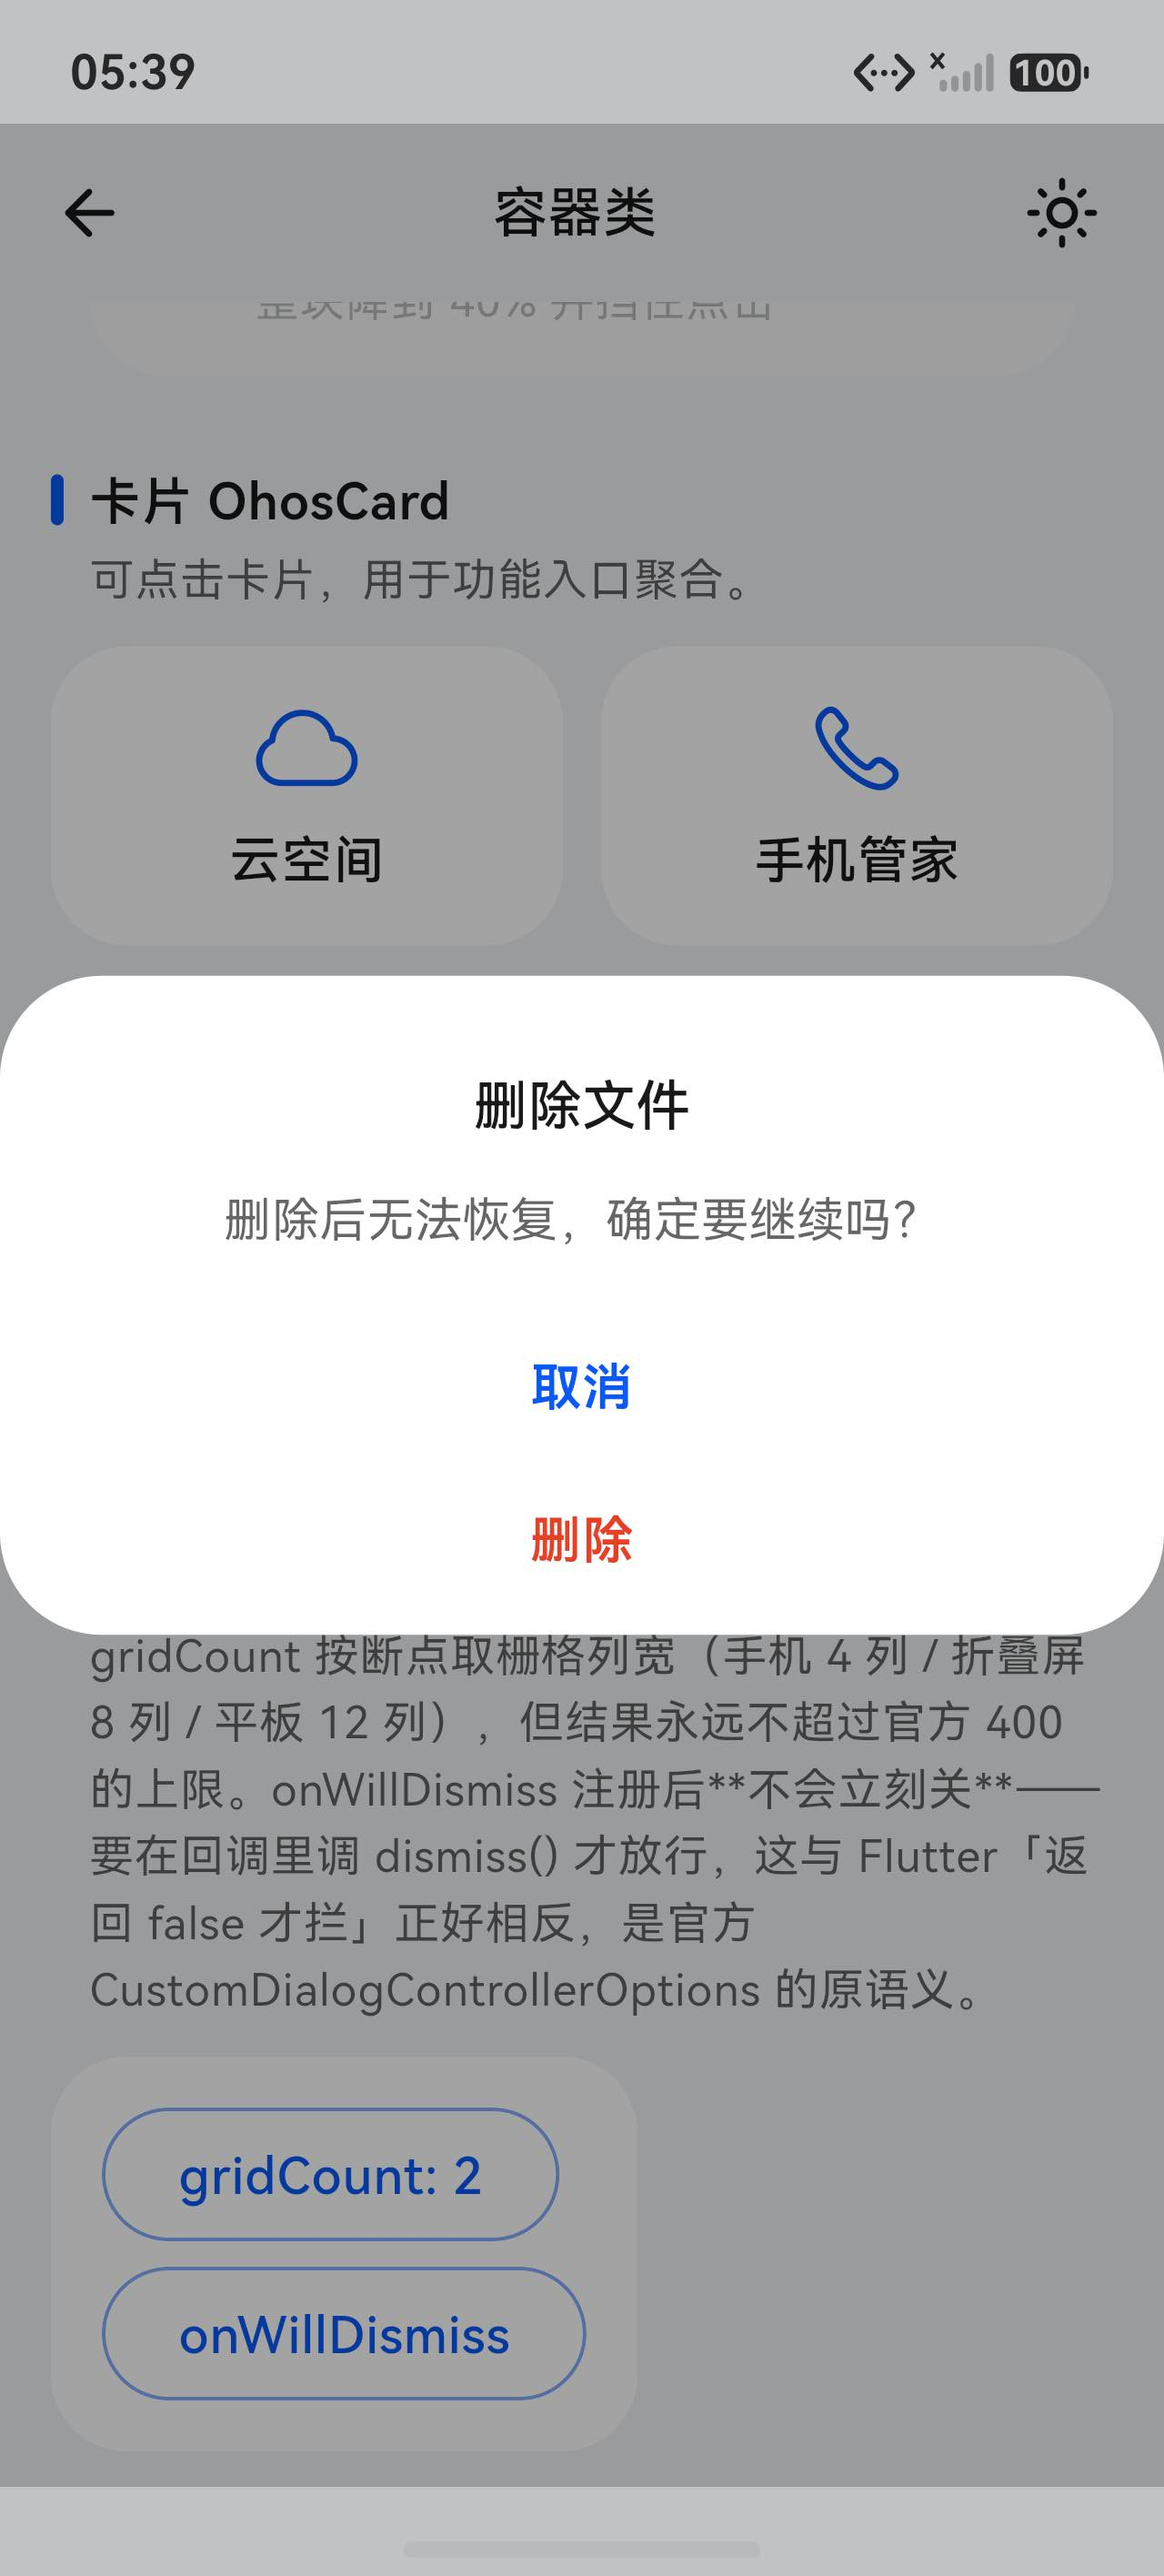
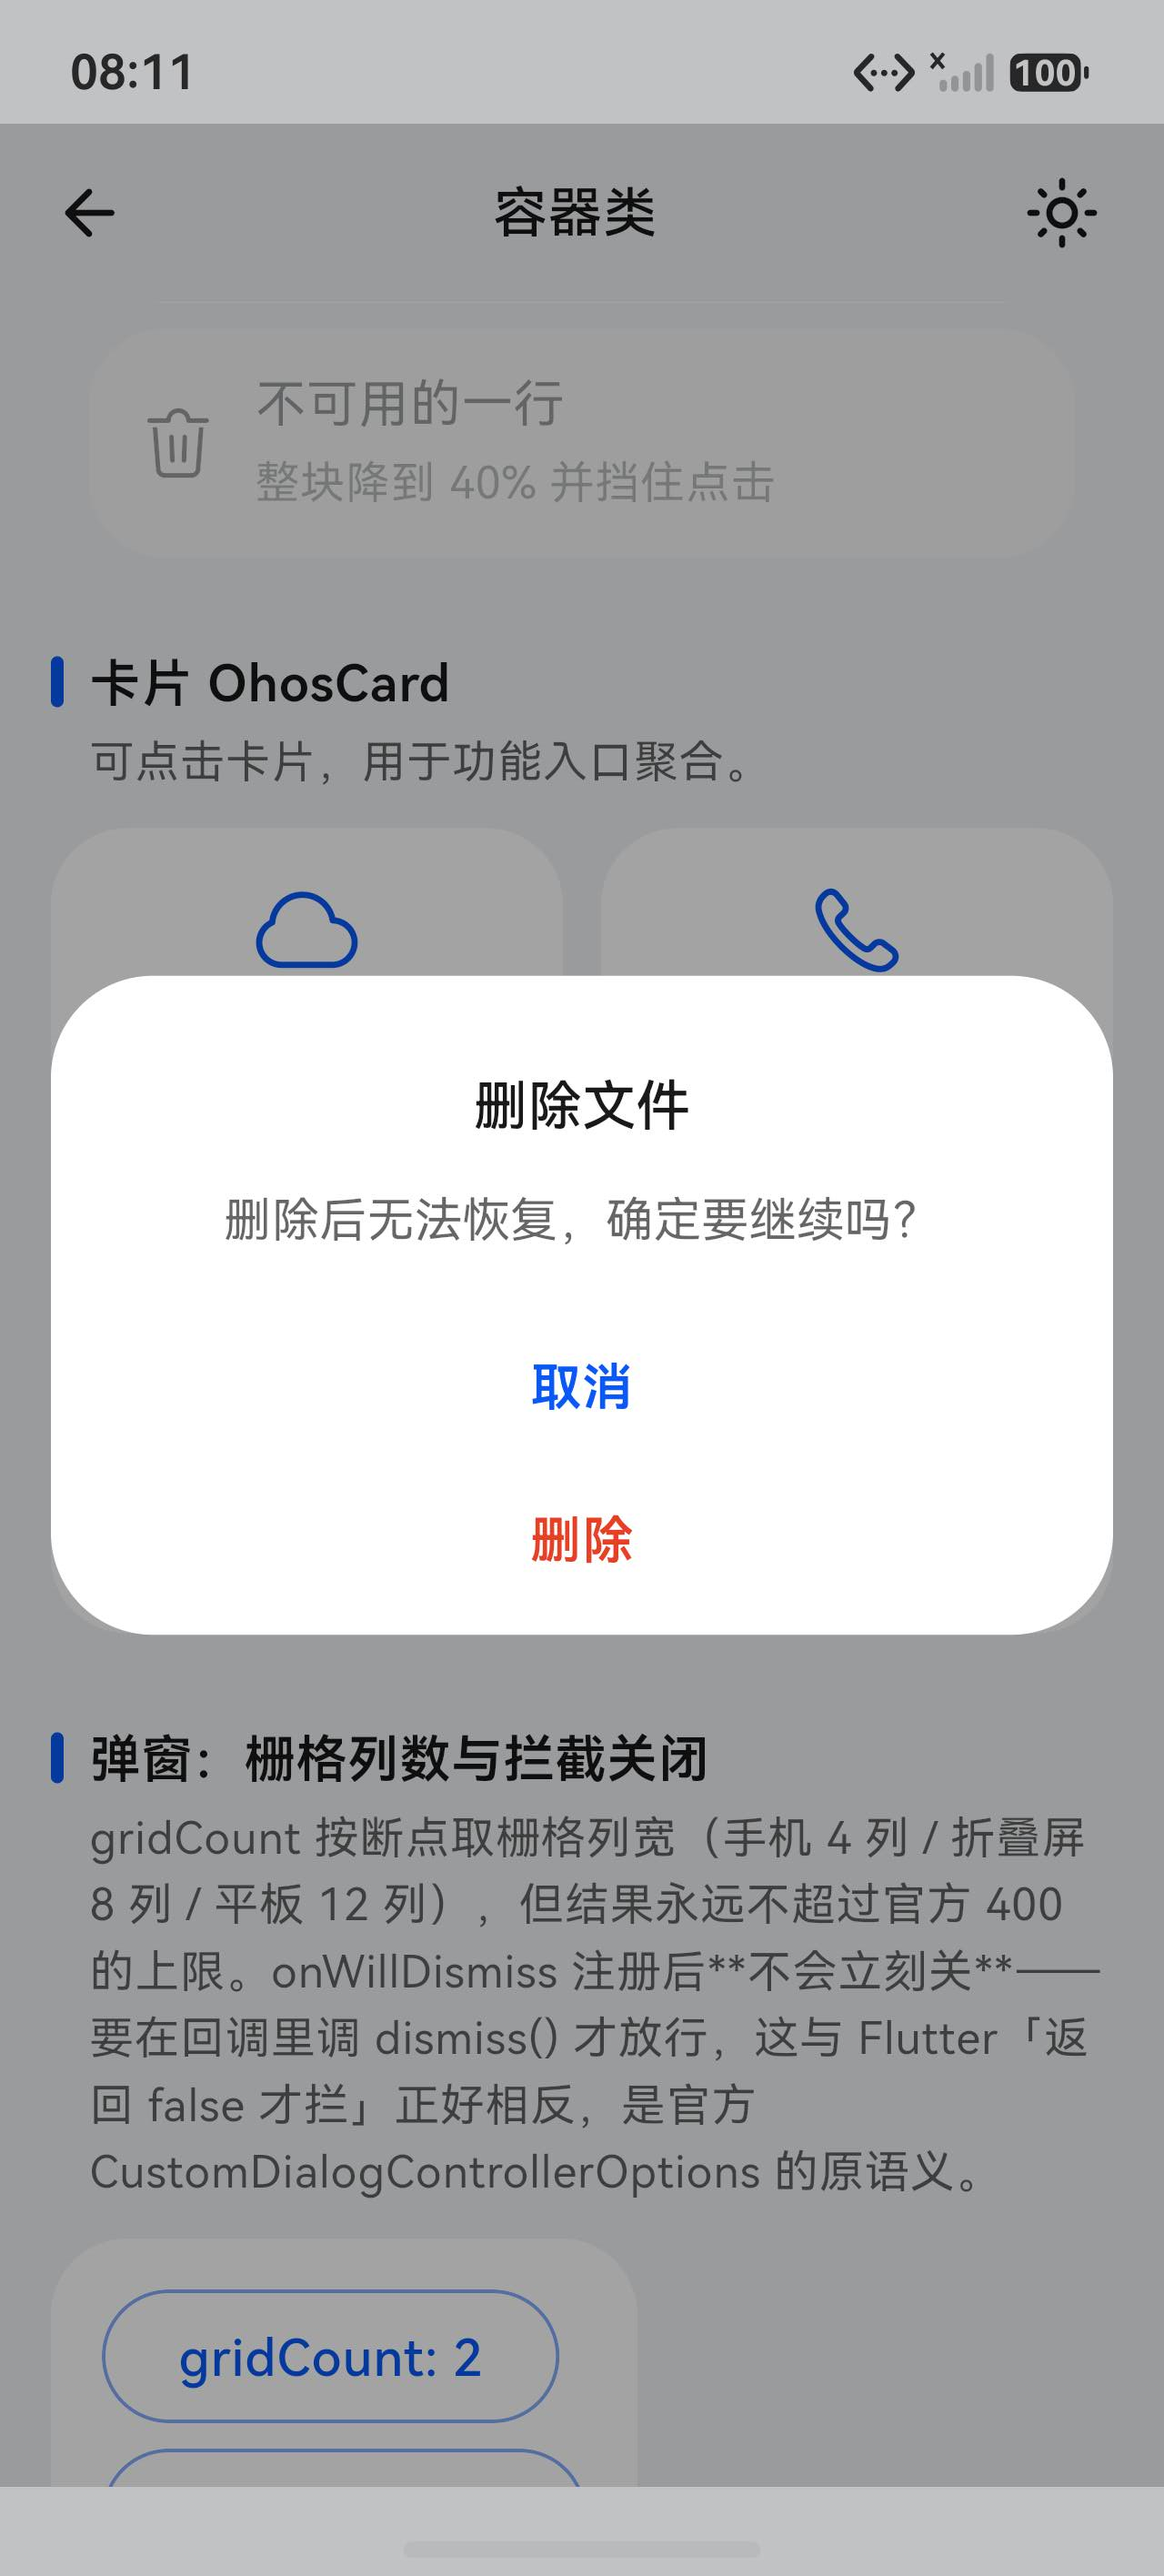
fix(widgets): 弹窗在窄屏上铺满整屏，左右各留 16vp 边距
`OhosAlertDialog` 自绘后把 `maxWidth` 当成了必然宽度：
`SizedBox(width: bounds.maxWidth)` 直接取 400，塞进 `Center` 的松约束里。
360vp 屏上 400 无法满足，布局把它压成屏宽 —— 弹窗贴住左右两侧，圆角切在
屏幕外，看起来不像弹窗。旧版走 `Dialog(insetPadding: horizontal 40)`，
宽度自适应且自带边距，自绘时把这个行为丢了。

`maxWidth = 400` 是上限而非必然值。`_bounds` 改为两个条件取小：官方的
400vp 上限，与「窗口宽 − 左右边距」；宽度同样扣安全区（横屏刘海在左右）。

边距 16vp 不在参数表里，只能下到系统资源表取：`pattern.json` 的
`ohos_dialog_pattern` 有 `dialog_container_margin_left` /
`dialog_container_margin_right`，都指向 `$float:margin_left` / `margin_right`，
在 `float_sys.json` 里均为 16.0vp。

这与 `OhosFloatingTabBar` 的 328 上限是同一类错：绝对上限 ≠ 必然值。

真机量化（1280px 宽 / 3.5 密度）：
- 修前：左留白 0 / 右留白 0 / 宽 1280px（100.0%）
- 修后：左留白 56 / 右留白 56 / 宽 1168px（91.2%），56 = 16vp × 3.5

测试断言**具体宽度**而非「≤ 400」，所以能变红：撤销夹取后量到 360.0，
修后是 328.0。库测试 651 / example 183 全绿，analyze 干净。

顺带重拍 `ink_04_dialog.png` —— 旧图弹窗描边在 x=3 / x=1276，同样铺满，
是同一个缺陷；新图白区 60~1219，彩色占比 0.000%（真墨水屏）、
`DefaultTextStyle.fallback` 黄线像素 0。

diff --git a/test/ohos_ui_test.dart b/test/ohos_ui_test.dart
@@ -5200,6 +5200,50 @@ void main() {
       );
     });
 
+    testWidgets('窄屏上弹窗不铺满整屏，左右各留 16vp 边距', (WidgetTester tester) async {
+      // `maxWidth = 400` 是**上限**，不是「一定 400」。360vp 的手机屏上可用
+      // 宽度不够 400，只夹 400 会让弹窗顶满整个屏幕宽度（`SizedBox(width:400)`
+      // 在 360 的松约束下被压成 360），圆角切在屏幕外、看起来不像弹窗。
+      //
+      // 这条用例能变红是因为它断言**具体宽度**而不是「≤ 400」：修之前量到
+      // 360（= 屏宽），修之后是 328。
+      // `setSurfaceSize` **不改 `MediaQuery`** —— 组件读的是
+      // `MediaQuery.sizeOf`，只设前者的话 `_bounds` 算出来仍是默认 800×600，
+      // 量到的弹窗宽度不受影响。两个都要设，否则这条用例会因为
+      // 「屏幕从来没变成 360」而假通过。
+      const Size phone = Size(360, 800);
+      tester.view.physicalSize = phone;
+      tester.view.devicePixelRatio = 1.0;
+      await tester.binding.setSurfaceSize(phone);
+      addTearDown(() {
+        tester.view.resetPhysicalSize();
+        tester.view.resetDevicePixelRatio();
+        return tester.binding.setSurfaceSize(null);
+      });
+
+      await tester.pumpWidget(
+        wrap(
+          OhosAlertDialog(
+            title: '删除文件',
+            content: '删除后无法恢复，确定要继续吗？',
+            actions: const <OhosDialogAction>[
+              OhosDialogAction(label: '取消', onPressed: _noop),
+            ],
+          ),
+        ),
+      );
+      await tester.pumpAndSettle();
+
+      final Rect surface = tester.getRect(dialogSurface());
+      expect(
+        surface.width,
+        360 - OhosDialogMetrics.sideMargin * 2,
+        reason: '窄屏上宽度应是「屏宽 − 左右边距」，不是屏宽本身',
+      );
+      expect(surface.left, OhosDialogMetrics.sideMargin);
+      expect(surface.right, 360 - OhosDialogMetrics.sideMargin);
+    });
+
     testWidgets('显式 width 超过 400 会被夹回，而不是突破上限', (WidgetTester tester) async {
       // 官方 width 的语义是「设置后不超过默认最大宽度」—— 是**夹取**不是
       // **放开**，这点与 gridCount 的「异常值按默认值处理」不同。

diff --git a/lib/src/widgets/ohos_alert_dialog.dart b/lib/src/widgets/ohos_alert_dialog.dart
@@ -49,6 +49,20 @@ class OhosDialogMetrics {
     double.infinity,
     double.infinity,
   );
+
+  /// 弹窗与窗口左右边缘的最小间距。
+  ///
+  /// **这个数不在参数表里，只能下到系统资源表取**：`pattern.json` 的
+  /// `ohos_dialog_pattern` 有 `dialog_container_margin_left` /
+  /// `dialog_container_margin_right`，两者都指向 `$float:margin_left` /
+  /// `margin_right`，在 `float_sys.json` 里都是 **16.0vp**。
+  ///
+  /// 为什么必须有它：`maxWidth = 400` 是**上限**，不是「一定 400」。窄屏上
+  /// 可用宽度小于 400 时，直接把 `SizedBox(width: 400)` 塞进 `Center`，
+  /// 弹窗会贴住屏幕左右两侧（360vp 屏上超出 40vp，表现为「宽度占满整屏」），
+  /// 圆角切在屏幕外、看起来不像弹窗。这与 `OhosFloatingTabBar` 的 328 上限
+  /// 是同一类错：**绝对上限 ≠ 必然值，还要再夹一次可用宽度**。
+  static const double sideMargin = 16;
 }
 
 /// 弹窗关闭原因，对应 ArkUI 的 `DismissReason`。
@@ -307,8 +321,15 @@ class _OhosAlertDialogState extends State<OhosAlertDialog> {
     final EdgeInsets safe = MediaQuery.paddingOf(context);
     // 扣掉安全区再乘 0.9 —— 官方明写「0.9 *（窗口高度 - 安全区域）」。
     final double usableHeight = screen.height - safe.top - safe.bottom;
+    // 宽度上限要**两个条件取小**：官方的 400vp 上限，与「窗口宽 − 左右边距」。
+    // 400 是绝对上限而非必然值 —— 360vp 屏上它不可能被满足，只夹 400 会
+    // 让弹窗铺满整屏、圆角切在屏幕外。宽度同样要扣安全区（横屏刘海在左右）。
+    final double usableWidth =
+        screen.width - safe.left - safe.right - OhosDialogMetrics.sideMargin * 2;
     return (
-      maxWidth: OhosDialogMetrics.maxWidth,
+      maxWidth: OhosDialogMetrics.maxWidth < usableWidth
+          ? OhosDialogMetrics.maxWidth
+          : usableWidth,
       maxHeight: usableHeight * OhosDialogMetrics.maxHeightFactor,
     );
   }
